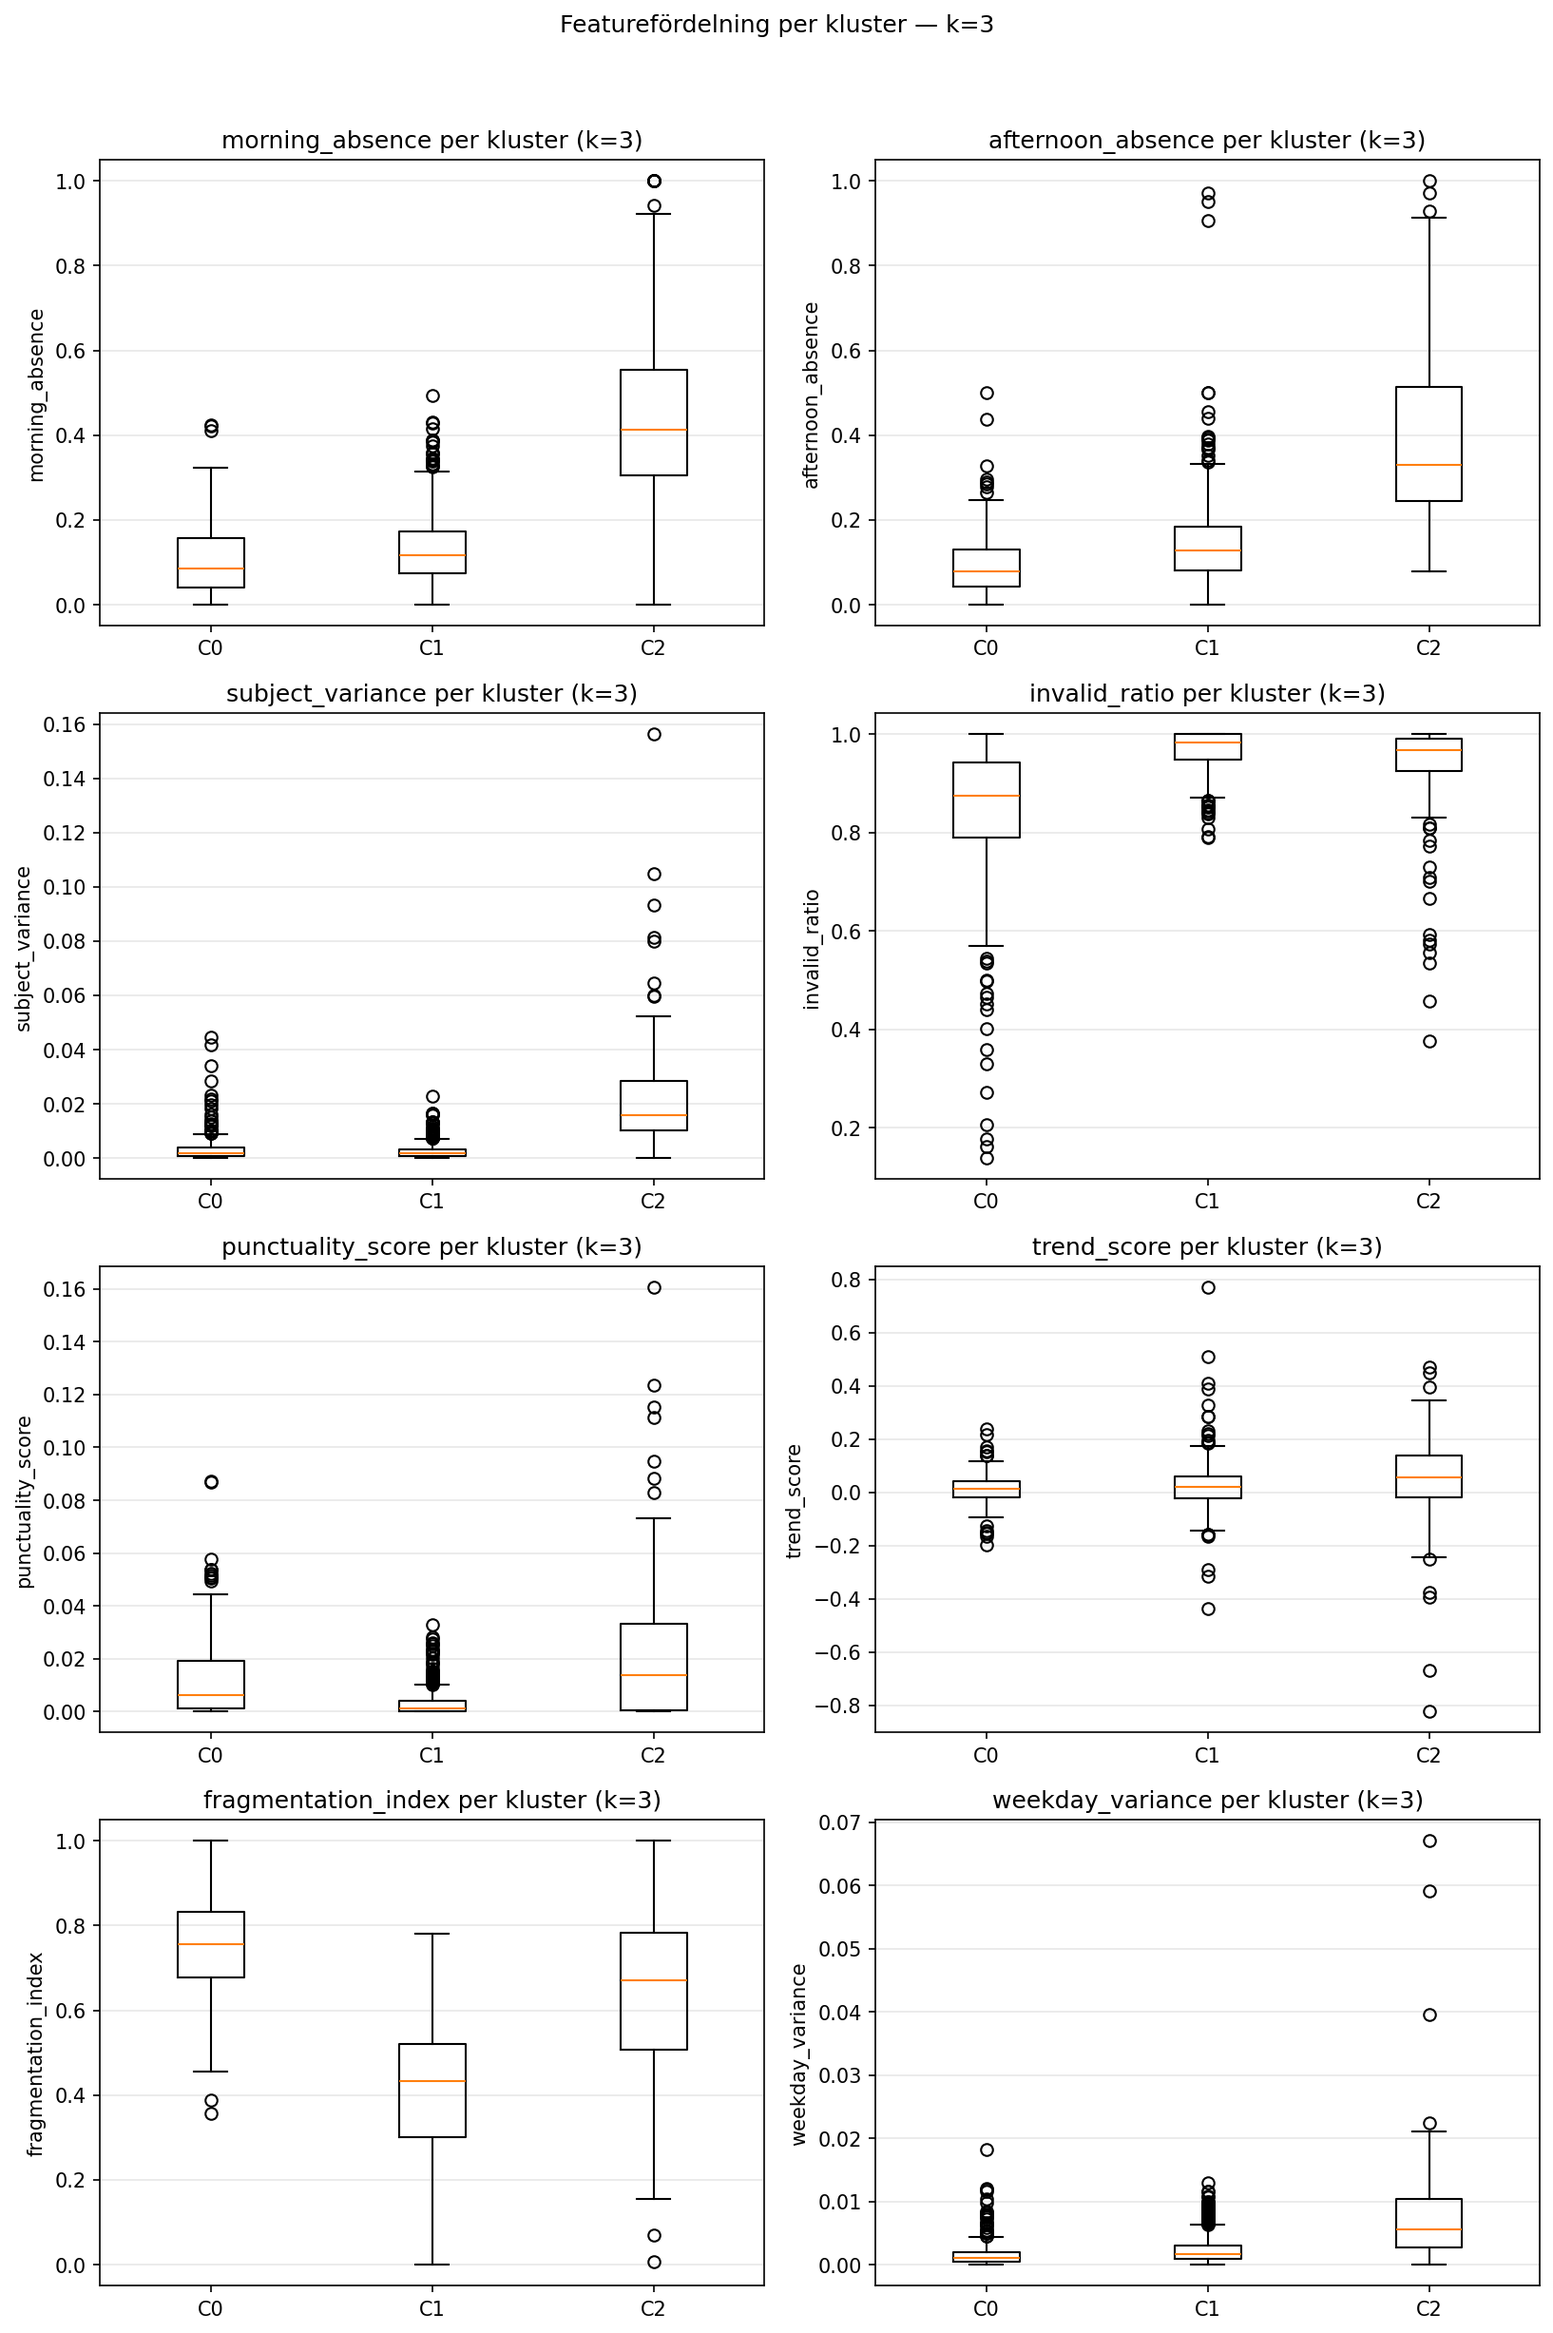
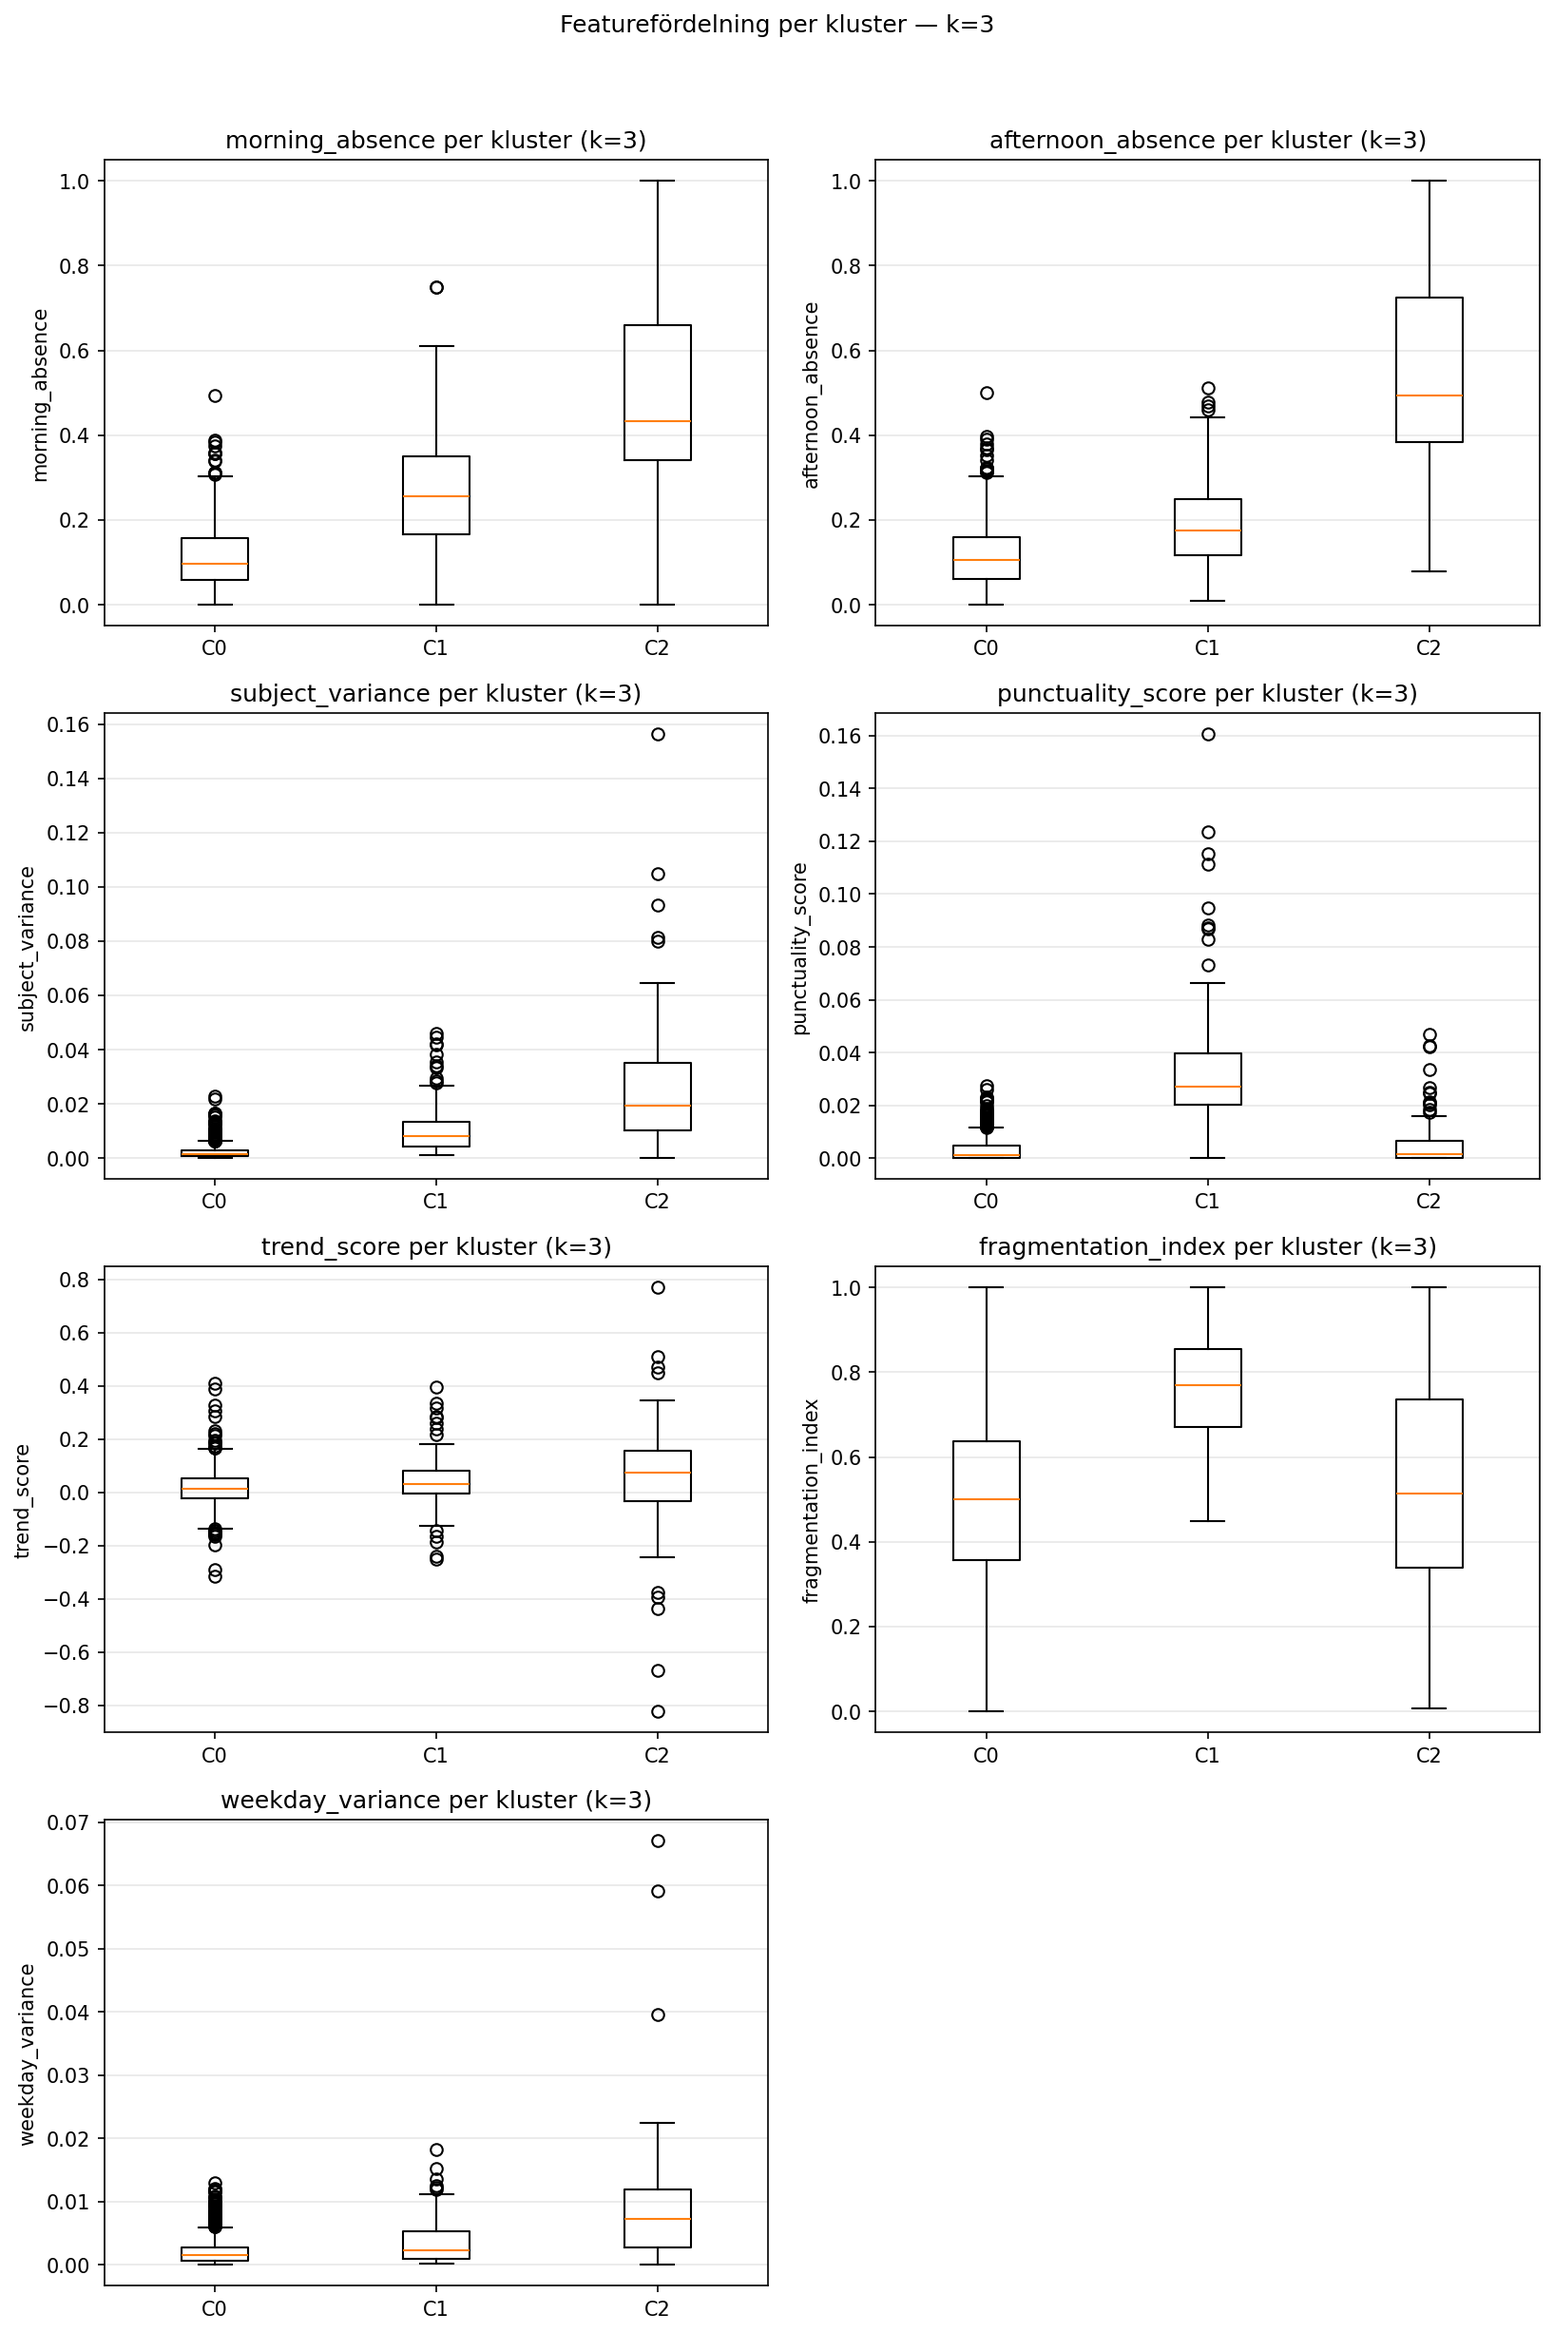
Remove invalid_ratio feature from preprocessing and KMeans scripts. Update README to reflect this change and ensure consistency across documentation. Update binary plot files for cluster demographics, elbow plot, feature distributions, and stability test.

diff --git a/src/train_kmeans.py b/src/train_kmeans.py
@@ -29,7 +29,6 @@ FEATURES = [
     "morning_absence",
     "afternoon_absence",
     "subject_variance",
-    "invalid_ratio",
     "punctuality_score",
     "trend_score",
     "fragmentation_index",
@@ -71,7 +70,6 @@ def load_and_clean(
             df[_rate] = df[_rate].fillna(0)
 
     for _ratio in (
-        "invalid_ratio",
         "fragmentation_index",
         "weekday_variance",
         "punctuality_score",

diff --git a/src/preprocess.py b/src/preprocess.py
@@ -32,7 +32,6 @@ CLUSTERING_FEATURES = [
     "morning_absence",
     "afternoon_absence",
     "subject_variance",
-    "invalid_ratio",
     "fragmentation_index",
     "weekday_variance",
     "trend_score",

diff --git a/README.md b/README.md
@@ -10,7 +10,6 @@ Dessa kolumner (se `FEATURES` i `src/train_kmeans.py`) byggs i `preprocess.py` o
 
 - **Morning / afternoon absence:** Andel lektioner med “sann” frånvaro vars starttid är **före 09:00** respektive **efter 13:00** (lokal tid).
 - **Fragmentation index:** Andel **strö-/partialdagar** bland frånvarodagar som klassas som partial jämfört med hel dags frånvaro på **dagsnivå** (mäter “hackighet” i frånvaromönster; kräver tillräckligt många frånvarodagar för att vara meningsfullt — se kod).
-- **Invalid ratio:** Andel frånvarominuter som räknas som **ogiltig** (kolumnen `invalid_absence_minutes` + rader med **NOCAUSE**, utan dubbelräkning), dividerat med elevens totala frånvarominuter — alltså en **andel** mellan 0 och 1, oberoende av om eleven totalt varit borta kort eller länge (värdet säger hur stor del av frånvaron som är ogiltig, inte hur mycket frånvaro det finns i absoluta termer); klippt till [0, 1].
 - **Subject variance:** **Varians** i frånvaroandel mellan **skolämnen** för eleven (ojämn frånvaro över ämnen ger högre värde).
 - **Punctuality score:** Andel lektioner som registrerats som **sen ankomst** (`LATEARRIVAL`).
 - **Trend score:** Skillnad i **frånvaroandel** mellan **VT och HT** (positiv = relativt högre frånvaro VT).
